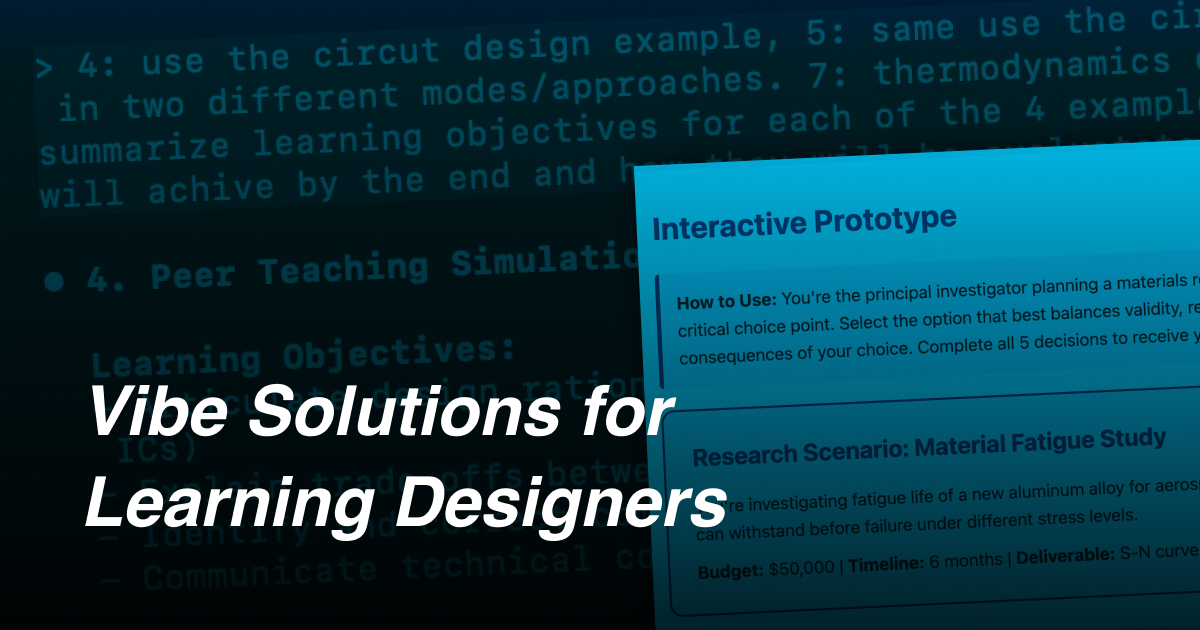
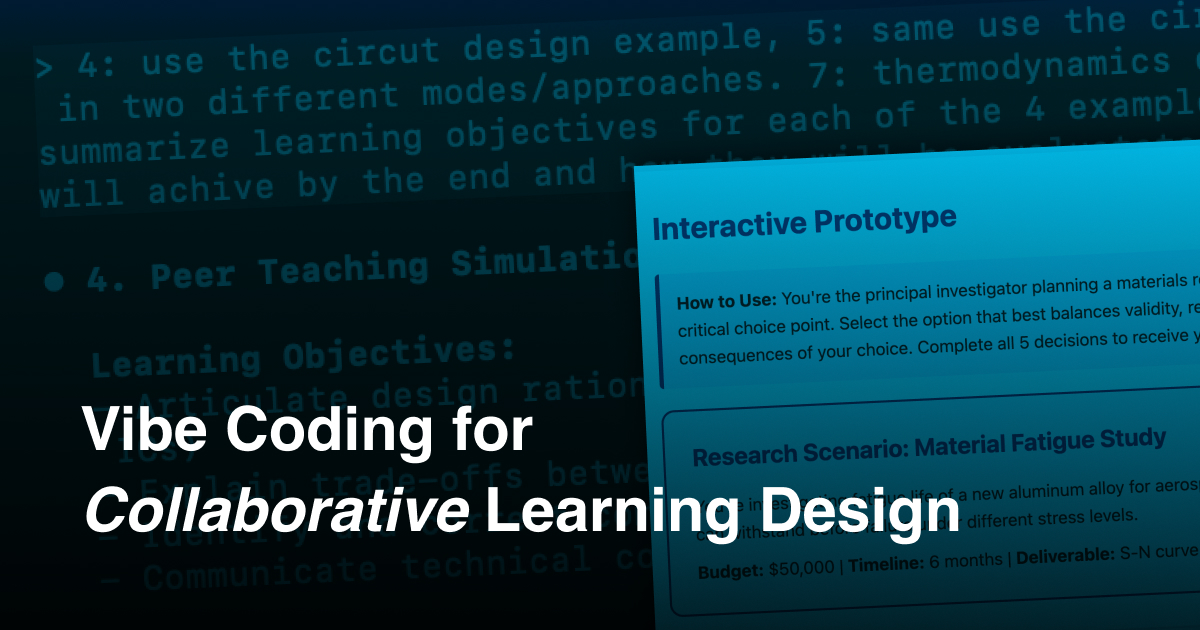
updates

Changed region(s): [[0.0617, 0.6032, 0.8017, 0.8746]]

diff --git a/lxd/index.html b/lxd/index.html
@@ -11,7 +11,7 @@
 
   <!-- Open Graph / Facebook -->
   <meta property="og:type" content="website">
-  <meta property="og:title" content="Vibe Solutions for Learning Designers">
+  <meta property="og:title" content="Vibe Coding for Collaborative Learning Design">
   <meta property="og:description" content="Rapidly prototype interactive learning experiences using AI-assisted development">
   <meta property="og:url" content="https://tchr01.github.io/lxd/">
   <meta property="og:site_name" content="Learning Experience Design (LXD)">
@@ -20,7 +20,7 @@
 
   <!-- Twitter Card -->
   <meta name="twitter:card" content="summary_large_image">
-  <meta name="twitter:title" content="Vibe Solutions for Learning Designers">
+  <meta name="twitter:title" content="Vibe Coding for Collaborative Learning Design">
   <meta name="twitter:description" content="Rapidly prototype interactive learning experiences using AI-assisted development.">
   <meta name="twitter:image" content="https://tchr01.github.io/lxd/preview-image.jpg">
   <meta name="twitter:image:alt" content="Preview of STEM Interactive Learning Modalities">
@@ -272,7 +272,7 @@
 <body>
     <div class="container">
         <header>
-            <h1>Vibe Solutions for Learning Designers</h1>
+            <h1>Vibe Coding for Collaborative Learning Design</h1>
             <p class="subtitle">Prototypes for science and engineering education</p>
              <div class="about-grid">
                 <div class="intro-section">
